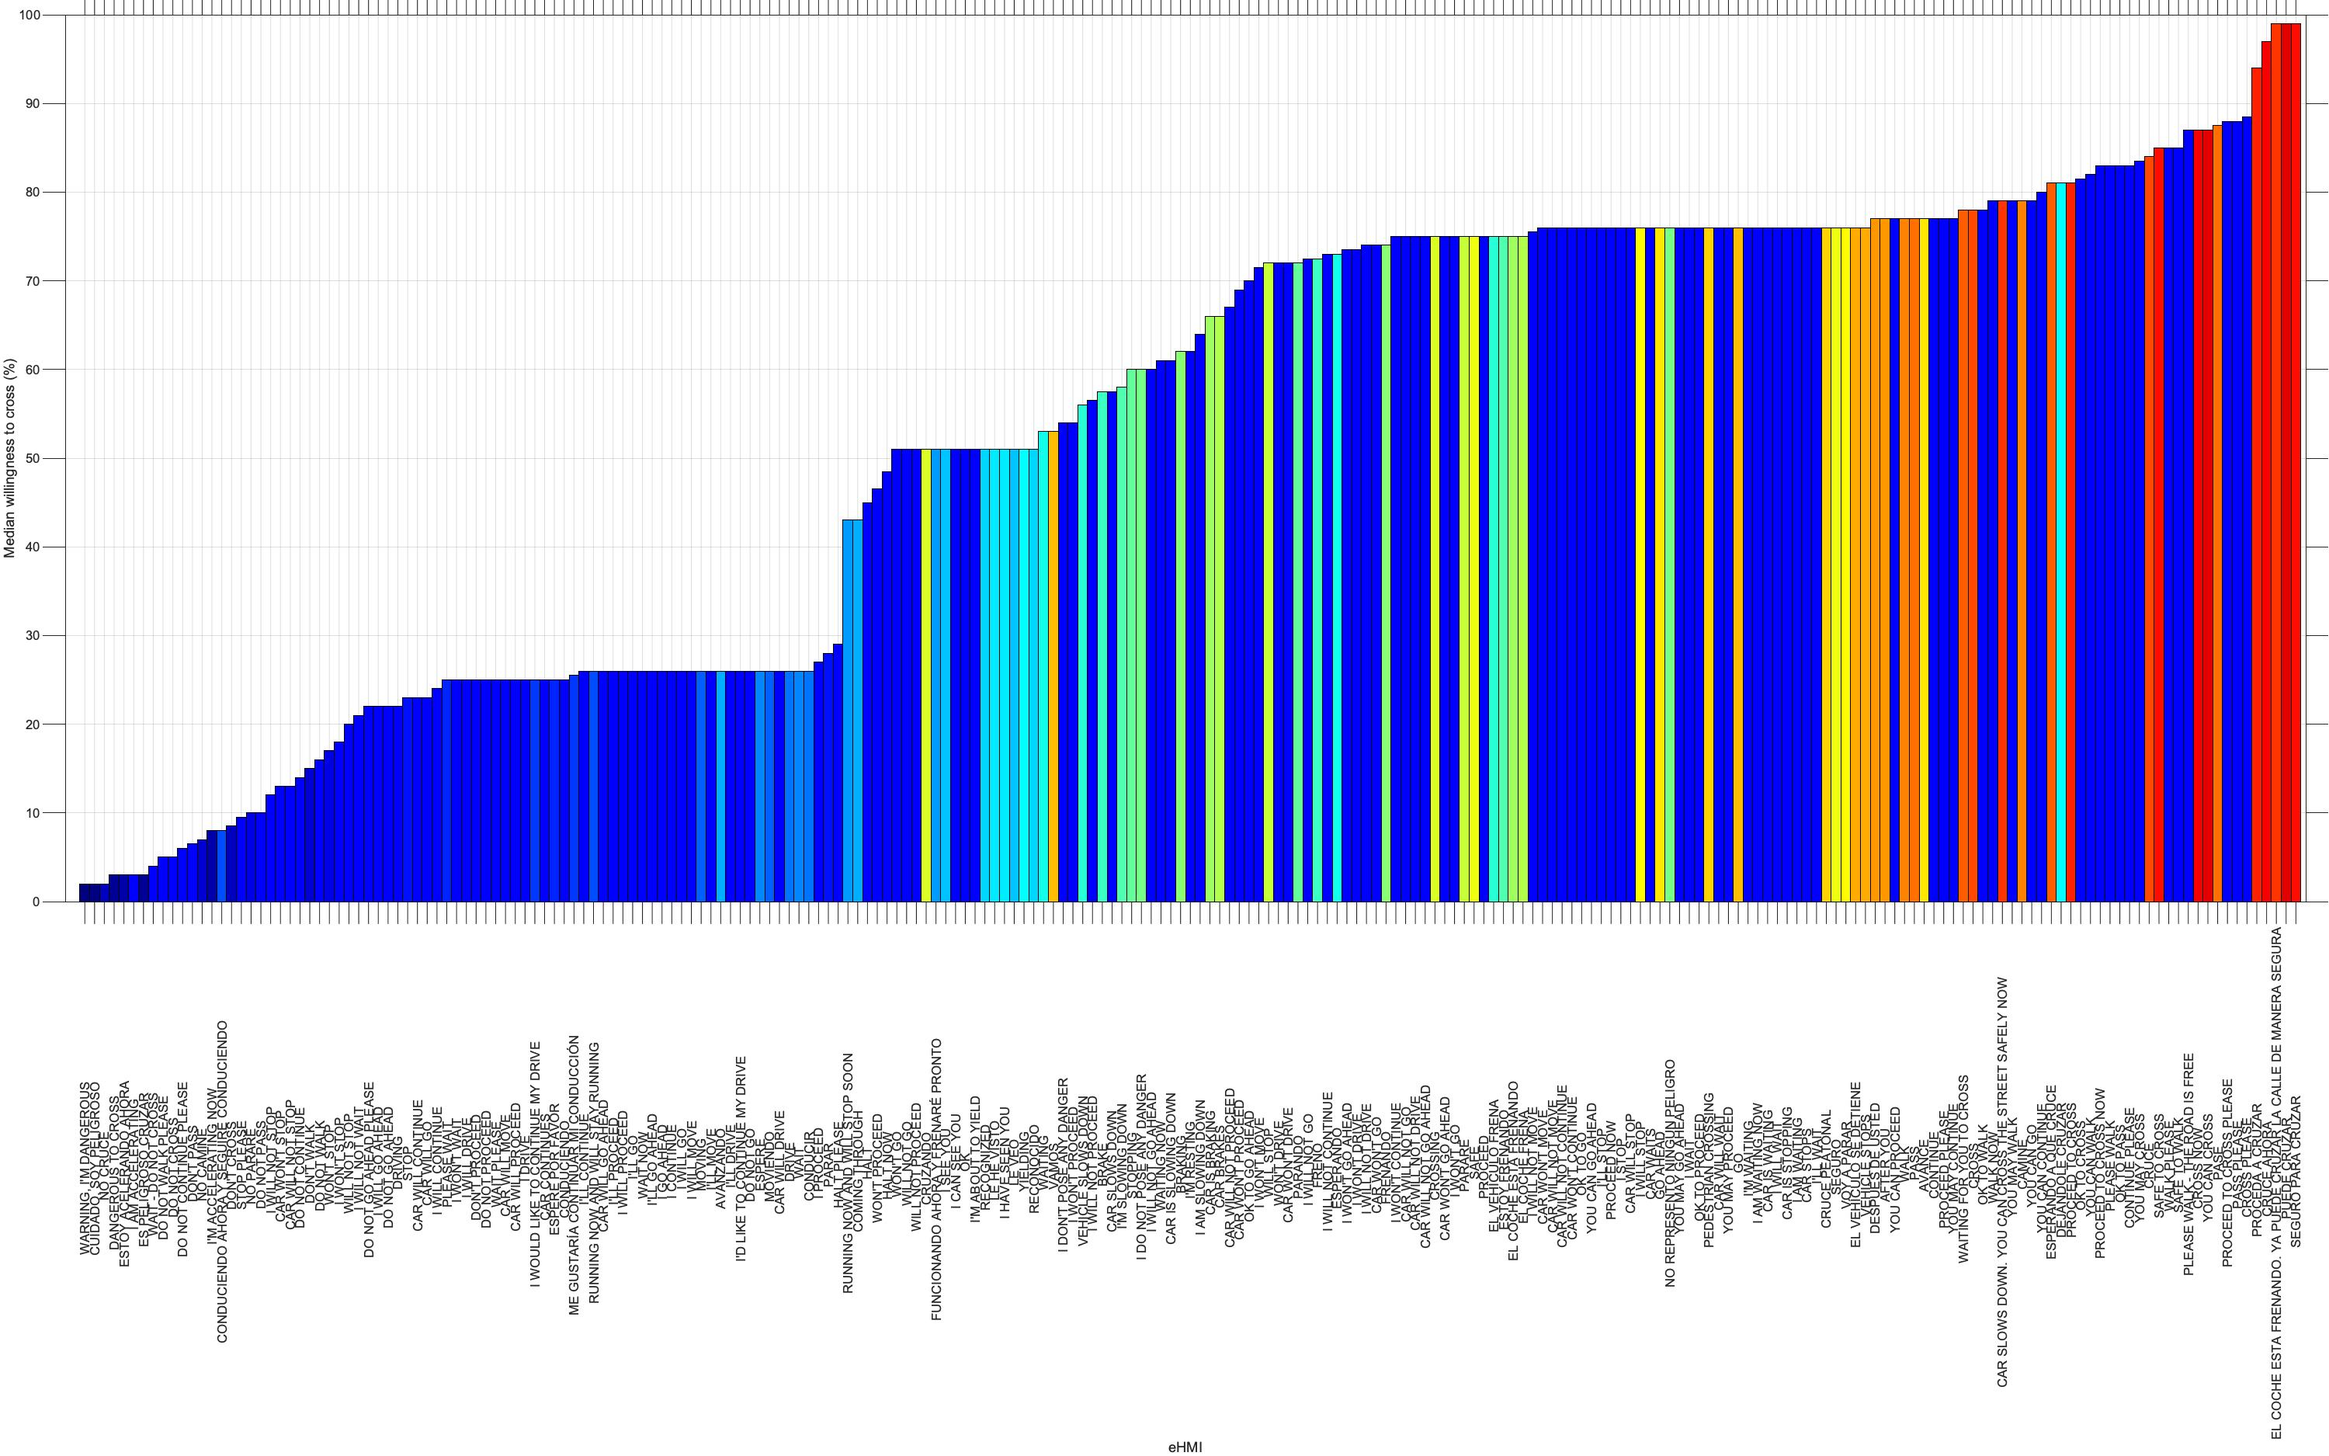
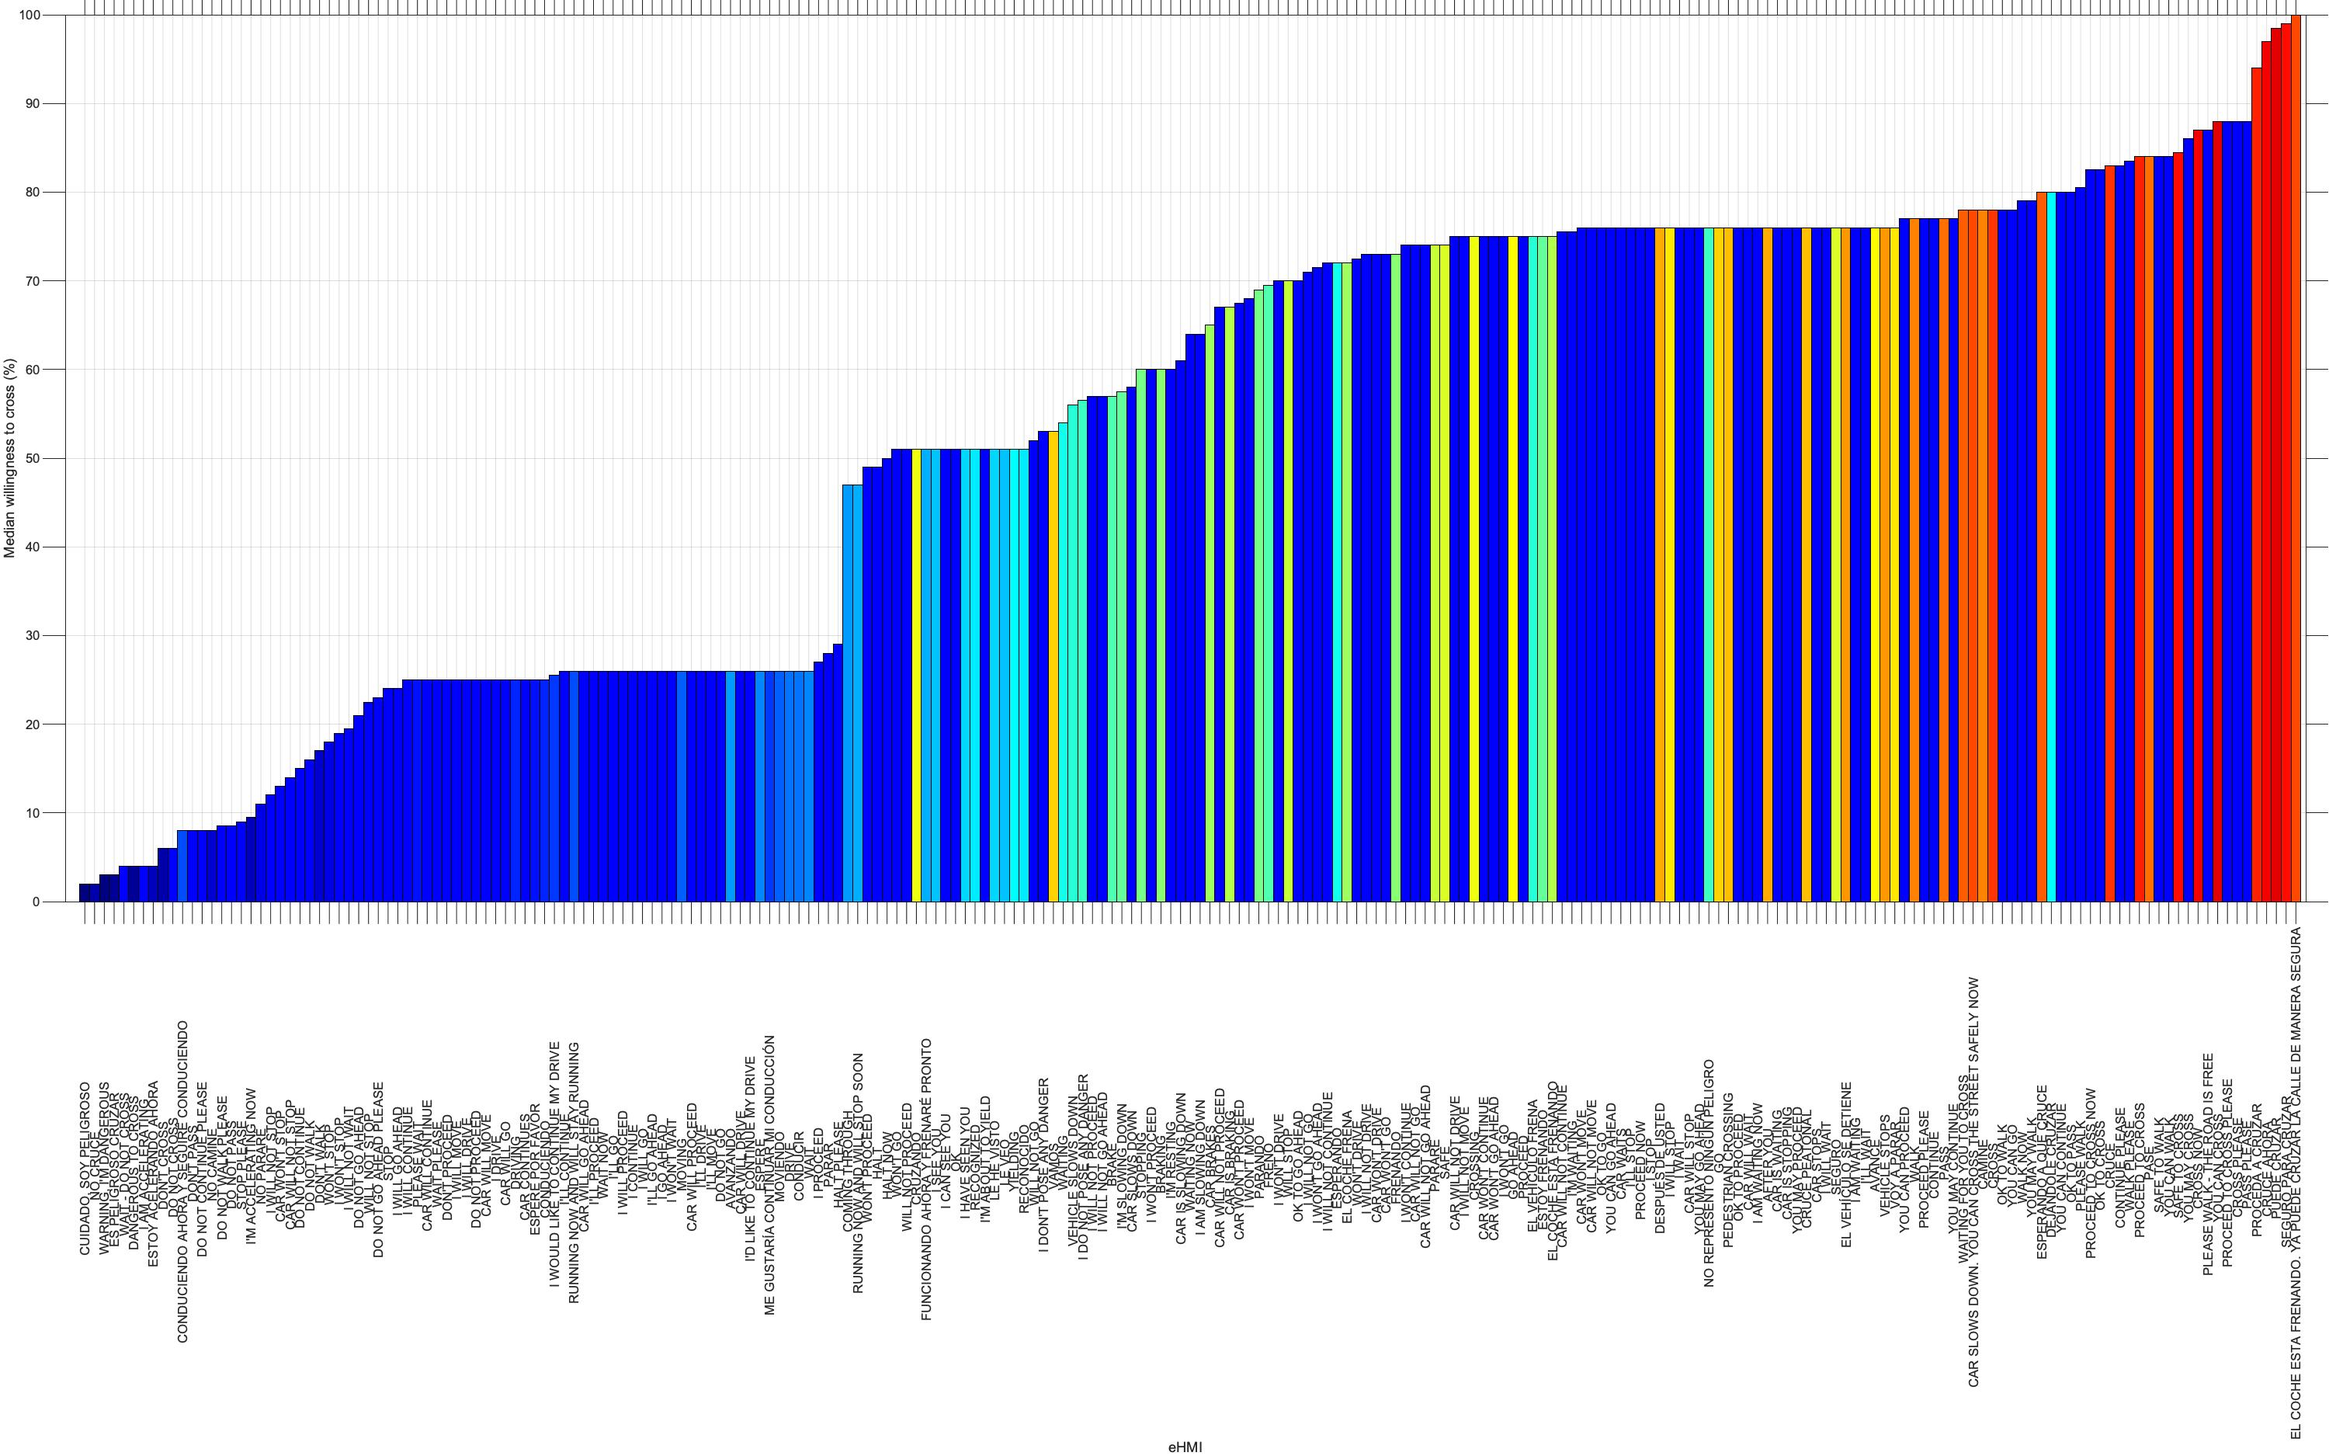
Updated figures

diff --git a/textehmi/analysis/analysis.m b/textehmi/analysis/analysis.m
@@ -104,6 +104,11 @@ eHMI_text_MeanSorted=char(eHMI_text{b,:});
 [RPoSTDSorted,bs]=sort(RPoSTD);
 eHMI_text_STDSorted=char(eHMI_text{bs,:});
 
+% Types of eHMIs
+ego=find(mapping{:,7}==1 & mapping{:,8}==0);
+notego=find(mapping{:,7}==0 & mapping{:,8}==1);
+other=find(~ismember(1:227, union(ego,notego)));
+
 %% Median willingness to cross for all stimuli
 figure;
 hold on;
@@ -149,42 +154,6 @@ set(gca,'LooseInset',[0.01 0.01 0.01 0.01])
 if config.save_figures
     export_figure(gcf, [config.path_output filesep 'median-cross'], 'epsc')
     export_figure(gcf, [config.path_figures filesep 'median-cross'], 'jpg')
-end
-
-%% Median willingness to cross for limited number of stimuli
-figure;
-% bottom N_SUB
-subplot(1,2,1);
-hold on;
-grid on;
-box on;
-for i=1:1+N_SUB % loop over eHMIs
-    bar(i,1+RPoMedSorted(i),'barwidth',1,'facecolor','b','edgecolor','k');
-end
-set(gca,'xlim',[1 1+N_SUB+1],'tickdir','out','ylim',[0 100],'xtick',[1:1:1+N_SUB])
-set(gca,'xticklabel',eHMI_text_MedSorted(1:1+N_SUB,:))
-xlabel('eHMI');
-ylabel('Median willingness to cross (%)')
-% top N_SUB
-subplot(1,2,2);
-hold on;
-grid on;
-box on;
-for i=N_STIMULI-N_SUB:N_STIMULI % loop over eHMIs
-    bar(i,1+RPoMedSorted(i),'barwidth',1,'facecolor','b','edgecolor','k');
-end
-set(gca,'xlim',[N_STIMULI-N_SUB N_STIMULI+1],'tickdir','out','ylim',[0 100],'xtick',[N_STIMULI-N_SUB:1:N_STIMULI])
-set(gca,'xticklabel',eHMI_text_MedSorted(N_STIMULI-N_SUB:N_STIMULI,:))
-xlabel('eHMI');
-ylabel('Median willingness to cross (%)')
-% config for the whole figure
-h=findobj('FontName','Helvetica');
-set(h,'FontSize',8,'Fontname','Arial')
-set(gca,'LooseInset',[0.01 0.01 0.01 0.01])
-% maximise and export as eps and jpg (for readme)
-if config.save_figures
-    export_figure(gcf, [config.path_output filesep 'median-cross-subgroup'], 'epsc')
-    export_figure(gcf, [config.path_figures filesep 'median-cross-subgroup'], 'jpg')
 end
 
 %% Mean willingness to cross for all stimuli
@@ -280,12 +249,36 @@ if config.save_figures
     export_figure(gcf, [config.path_figures filesep 'sd-cross'], 'jpg')
 end
 
+%% Scatter plot of all eHMIs
+% TODO: add legend
+figure
+cd=NaN(size(RPo,2),3);
+cd(ego,:)=repmat([0 0.6 0], length(ego), 1);
+cd(notego,:)=repmat([0 0 0], length(notego), 1);
+cd(other,:)=repmat([1 0 0], length(other), 1);
+cd=cd(1:180,:);
+h = textscatter([nanmean(RPo(:,1:180))' nanmedian(RTo(:,1:180))'], ...
+                table2cell(eHMI_text(1:180, :)), ...
+                'markersize', 20, ...
+                'colordata', cd, ...
+                'TextDensityPercentage', 100, ...
+                'maxtextlength', 50, ...
+                'fontsize', 8);
+xlabel('Mean willingness to cross (%)','fontsize',20);
+ylabel('Median response time (ms)','fontsize',20);
+set(gca, ...
+    'Fontsize', 20, ...
+    'LooseInset', [0.01 0.01 0.01 0.01], ...
+    'xlim', [10 85])
+% maximise and export as eps and jpg (for readme)
+if config.save_figures
+    export_figure(gcf, [config.path_output filesep 'median-cross-response-time'], 'epsc')
+    export_figure(gcf, [config.path_figures filesep 'median-cross-response-time'], 'jpg')
+end
+
 %% Message perspective graph
 figure;hold on;grid on
 clear h; % empty h object to store colour for the legend
-ego=find(mapping{:,7}==1 & mapping{:,8}==0);
-notego=find(mapping{:,7}==0 & mapping{:,8}==1);
-other=find(~ismember(1:227,union(ego,notego)));
 for i=ego
     scatter1 = scatter(nanmean(RPo(:,i)), nanmedian(RTo(:,i)), mapping{i,3}*20, ...
                        'markerfacecolor', 'g', ...
@@ -315,44 +308,14 @@ xlabel('Mean willingness to cross (%)');
 ylabel('Median response time (ms)');
 h=findobj('FontName','Helvetica');
 set(h,'FontSize',20,'Fontname','Arial')
-set(gca, ...
-    'LooseInset', [0.01 0.01 0.01 0.01])
+set(gca, 'LooseInset', [0.01 0.01 0.01 0.01])
 % maximise and export as eps and jpg (for readme)
 if config.save_figures
-    export_figure(gcf, [config.path_output filesep 'median-cross-usa-ven'], 'epsc')
-    export_figure(gcf, [config.path_figures filesep 'median-cross-usa-ven'], 'jpg')
+    export_figure(gcf, [config.path_output filesep 'median-cross-response-time-type'], 'epsc')
+    export_figure(gcf, [config.path_figures filesep 'median-cross-response-time-type'], 'jpg')
 end
-%% Textscatter plot (RECOMMEND: INCLUDE IN PAPER)
-figure
-cd=NaN(size(RPo,2),3);
-cd(ego,:)=repmat([0 1 0],length(ego),1);
-cd(notego,:)=repmat([0 0 0],length(notego),1);
-cd(other,:)=repmat([1 0 0],length(other),1);
-cd=cd(1:180,:);
-h=textscatter([nanmean(RPo(:,1:180))' nanmedian(RTo(:,1:180))'], ...
-    table2cell(eHMI_text(1:180,:)),'markersize',20,'colordata',cd, ...
-    'TextDensityPercentage',100,'maxtextlength',50,'fontsize',8);
-xlabel('Mean willingness to cross (%)','fontsize',20);
-ylabel('Median response time (ms)','fontsize',20);
-set(gca,'Fontsize',20)
-set(gca, ...
-    'LooseInset', [0.01 0.01 0.01 0.01],...
-    'xlim',[10 85])
 
-%% Display correlation matrices at the level of videos (RECOMMEND: INCLUDE IN PAPER; ONLY FIRST ONE?)
-XCM=[abs(50-nanmean(RPo))' nanmedian(RTo)' mapping{:,[3 7 8]}];
-disp('Correlation matrix all participants')
-disp(round(corr(XCM),2))
-
-XCM=[abs(50-nanmean(RPo(lang_es==1,181:end)))' nanmedian(RTo(lang_es==1,181:end))' mapping{181:end,[3 7 8]}];
-disp('Correlation matrix Spanish-language participants, Spanish eHMI texts')
-disp(round(corr(XCM),2))
-
-XCM=[abs(50-nanmean(RPo(lang_es==0,1:180)))' nanmedian(RTo(lang_es==0,1:180))' mapping{1:180,[3 7 8]}];
-disp('Correlation matrix Non-Spanish-language participants, English eHMI texts')
-disp(round(corr(XCM),2))
-
-%% Response time USA/VEN (RECOMMEND: NOT INCLUDE IN PAPER; OUTDATED)
+%% Response time USA/VEN
 figure;hold on;grid on
 clear h; % empty h object to store colour for the legend
 for i=1:180 % English eHMIs
@@ -387,7 +350,8 @@ if config.save_figures
     export_figure(gcf, [config.path_output filesep 'response-time-usa-ven'], 'epsc')
     export_figure(gcf, [config.path_figures filesep 'response-time-usa-ven'], 'jpg')
 end
-%% Response time vs number of characters (RECOMMEND: NOT INCLUDE IN PAPER, ALREADY COVERED BY CORRELATION MATRIX)
+
+%% Response time vs number of characters
 figure;hold on;grid on
 for i=1:227 % English eHMIs
     scatter_obj = scatter(mapping{i,3}, nanmedian(RTo(:,i)), 400, ...
@@ -410,22 +374,28 @@ if config.save_figures
     export_figure(gcf, [config.path_figures filesep 'response-time-num-chars'], 'jpg')
 end
 
-%% Scatter plot for Spanish and corresponding English eHMI texts (RECOMMEND: INCLUDE IN PAPER)
+%% Scatter plot for Spanish and corresponding English eHMI texts
 % assign colours to pairs of EN and ES eHMIs
 Ewi=NaN(47,1);
 for i=1:47 % loop over 47 Spanish eHMI texts
-    Ewi(i)=find(strcmp(mapping{:,2},mapping{180+i,10})); % find the index of the corresponding English eHMI text
+    % find the index of the corresponding English eHMI text
+    Ewi(i)=find(strcmp(mapping{:,2},mapping{180+i,10}));
 end
 figure;hold on;grid on;box on
 for i=1:47
-    scatter1 = scatter(nanmean(RPo(lang_es==1,Ewi(i))), nanmean(RPo(lang_es==1,i+180)), 250, ...
+    scatter1 = scatter(nanmean(RPo(lang_es==1,Ewi(i))), ...
+                       nanmean(RPo(lang_es==1,i+180)), ...
+                       250, ...
                        'markerfacecolor', [255, 204, 0]/255, ...
                        'markeredgecolor', 'none');
-    scatter2 = scatter(nanmean(RPo(lang_es==0,Ewi(i))), nanmean(RPo(lang_es==0,i+180)), 250, ...
+    scatter2 = scatter(nanmean(RPo(lang_es==0,Ewi(i))), ...
+                       nanmean(RPo(lang_es==0,i+180)), ...
+                       250, ...
                        'markerfacecolor', [179, 25, 66]/255, ...
                        'markeredgecolor', 'none');
-    plot([nanmean(RPo(lang_es==1,Ewi(i))) nanmean(RPo(lang_es==0,Ewi(i)))],...
-         [nanmean(RPo(lang_es==1,i+180)) nanmean(RPo(lang_es==0,i+180))],'k--')
+    plot([nanmean(RPo(lang_es==1,Ewi(i))) nanmean(RPo(lang_es==0,Ewi(i)))], ...
+         [nanmean(RPo(lang_es==1,i+180)) nanmean(RPo(lang_es==0,i+180))], ...
+         'k--')
     scatter1.MarkerFaceAlpha = 0.8;
     scatter2.MarkerFaceAlpha = 0.8;
 end
@@ -437,7 +407,11 @@ xlabel('Mean willingness to cross - eHMI in English');
 ylabel('Mean willingness to cross - eHMI in Spanish');
 h=findobj('FontName','Helvetica');
 set(h,'FontSize',20,'Fontname','Arial')
-set(gca, 'LooseInset', [0.01 0.01 0.01 0.01],'xlim',[0 100],'ylim',[0 100],'pos',[0.05 0.08 0.5 0.9])
+set(gca, ...
+    'LooseInset', [0.01 0.01 0.01 0.01], ...
+    'xlim', [0 100], ...
+    'ylim', [0 100], ...
+    'pos', [0.25 0.08 0.5 0.9])
 if config.save_figures
 % maximise and export as eps and jpg (for readme)
     export_figure(gcf, [config.path_output filesep 'median-cross-en-es'], 'epsc')
@@ -450,12 +424,12 @@ CMATR = X(:,[2:17, 23]);
 % compute correlations
 [c_CMATR, p_CMATR] = corr(CMATR, 'type', 'spearman', 'rows', 'pairwise');
 % labels for output
-labels = {'Gender', ...
+labels = {'Gend', ...
           'Age ', ...
-          'AgeLicense', ...
-          'ModeTrans', ...
-          'DriveFreq', ...
-          'Mileage', ...
+          'Licen', ...
+          'Trans', ...
+          'Drive', ...
+          'Mile', ...
           'Accid', ...
           'DBQ1', ...
           'DBQ2', ...
@@ -464,8 +438,8 @@ labels = {'Gender', ...
           'DBQ5', ...
           'DBQ6', ...
           'DBQ7', ...
-          'ProfEN', ...
-          'ProfES', ...
+          'EN', ...
+          'ES', ...
           'ENQs'};
 % output of correlation matrix
 printmat(round(c_CMATR*100)/100, ...
@@ -486,17 +460,39 @@ if config.save_figures
     export_figure(gcf, [config.path_figures filesep 'corrplot'], 'jpg')
 end
 
+%% Display correlation matrices at the level of stimuli
+XCM=[abs(50-nanmean(RPo))' nanmedian(RTo)' mapping{:,[3 7 8]}];
+disp('Correlation matrix all participants')
+disp(round(corr(XCM),2))
+
+XCM=[abs(50-nanmean(RPo(lang_es==1,181:end)))' ...
+     nanmedian(RTo(lang_es==1,181:end))' ...
+     mapping{181:end,[3 7 8]}];
+disp('Correlation matrix Spanish-language participants, Spanish eHMI texts')
+disp(round(corr(XCM),2))
+
+XCM=[abs(50-nanmean(RPo(lang_es==0,1:180)))' ...
+     nanmedian(RTo(lang_es==0,1:180))' ...
+     mapping{1:180,[3 7 8]}];
+disp('Correlation matrix Non-Spanish-language participants, English eHMI texts')
+disp(round(corr(XCM),2))
+
 %% Information on browser language
-disp('Number of participants (1) US & non-es browser, (2) VE & non-es browser, (3) US & es browser, (4) VE & es_browser')
-disp([sum(contains(Country,'US') & lang_es==0) sum(contains(Country,'VE') & lang_es==0) sum(contains(Country,'US') & lang_es==1) sum(contains(Country,'VE') & lang_es==1)])
+disp(['Number of participants (1) US & non-es browser, ' ...
+      '(2) VE & non-es browser, (3) US & es browser, ...' ...
+      '(4) VE & es_browser'])
+disp([sum(contains(Country,'US') & lang_es==0) ...
+      sum(contains(Country,'VE') & lang_es==0) ...
+      sum(contains(Country,'US') & lang_es==1) ...
+      sum(contains(Country,'VE') & lang_es==1)])
 
 g1=contains(Country,'VE');
 g2=contains(Country,'IN');
-disp([ sum(g1) sum(g2)
-    nanmedian(X(g1,26)) nanmedian(X(g2,26)) % survey duration
-   nanmean(X(g1,3)) nanmean(X(g2,3)) % mean age 
- 100*(-1+nanmean(X(g1,2))) 100*(-1+nanmean(X(g2,2))) % percentage males
-mean(X(g1,5)==1) mean(X(g2,5)==1)]) % percentage of participants with primary mode of transport = private vehicle
+disp([sum(g1) sum(g2)
+      nanmedian(X(g1,26)) nanmedian(X(g2,26)) % survey duration
+      nanmean(X(g1,3)) nanmean(X(g2,3)) % mean age 
+      100*(-1+nanmean(X(g1,2))) 100*(-1+nanmean(X(g2,2))) % percentage males
+      mean(X(g1,5)==1) mean(X(g2,5)==1)])
 
 %% ************************************************************************
 %% Export of overview of eHMIs to csv

diff --git a/textehmi/run.py b/textehmi/run.py
@@ -12,8 +12,8 @@ SAVE_P = True  # save pickle files with data
 LOAD_P = False  # load pickle files with data
 SAVE_CSV = True  # load csv files with data
 CREATE_STIMULI = False  # create stimuli based on base image
-CLEAN_DATA = True  # clean Appen data
-REJECT_CHEATERS = False  # reject cheaters on appen
+CLEAN_DATA = True  # clean appen data
+REJECT_CHEATERS = True  # reject cheaters on appen
 
 if __name__ == '__main__':
     # create stimuli

diff --git a/README.md b/README.md
@@ -33,20 +33,20 @@ Data from appen is anonymised in the following way:
 ### Visualisation
 Figures are saved in `text-crowdsourced/_output`.
 
+![median willingness to cross response time](https://github.com/bazilinskyy/text-crowdsourced/blob/main/figures/median-cross.jpg?raw=true)
+Median willingness to cross over median response time. Colours denote the type of eHMIs: black=allocentric, greed=egocentric, red=other.
+
+![ehmis in english and spanish](https://github.com/bazilinskyy/text-crowdsourced/blob/main/figures/median-cross-en-es.jpg?raw=true)
+Median willingness to cross for eHMIs presented in both English and Spanish.
+
 ![median willingness to cross](https://github.com/bazilinskyy/text-crowdsourced/blob/main/figures/median-cross.jpg?raw=true)
 Median willingness to cross. Colours show stimuli that were presented in both English and Spanish.
-
-![median willingness to cross for top and bottom 20](https://github.com/bazilinskyy/text-crowdsourced/blob/main/figures/median-cross-subgroup.jpg?raw=true)
-Median willingness to cross for top and bottom 20 eHMIs.
 
 ![mean willingness to cross](https://github.com/bazilinskyy/text-crowdsourced/blob/main/figures/mean-cross.jpg?raw=true)
 Mean willingness to cross. Colours show stimuli that were presented in both English and Spanish.
 
 ![sd willingness to cross](https://github.com/bazilinskyy/text-crowdsourced/blob/main/figures/sd-cross.jpg?raw=true)
 Standard deviation of willingness to cross. Colours show stimuli that were presented in both English and Spanish.
-
-![ehmis in english and spanish](https://github.com/bazilinskyy/text-crowdsourced/blob/main/figures/median-cross-en-es.jpg?raw=true)
-Median willingness to cross for eHMIs presented in both English and Spanish.
 
 ![median willingness to cross for usa and ven](https://github.com/bazilinskyy/text-crowdsourced/blob/main/figures/median-cross-usa-ven.jpg?raw=true)
 Median willingness to cross for participants from USA and Venezuela.
